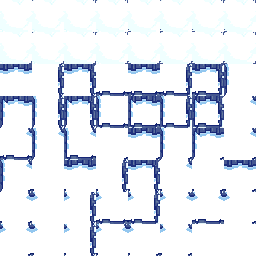
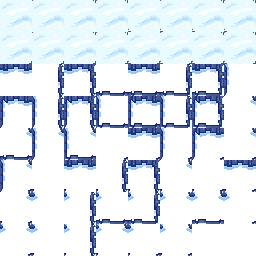
🍱 Nieve nueva (textura de Retro Diffusion en el set y la lamina de costa), flores y cactus nuevos
…y bombardero mas grande

Claude-Session: https://claude.ai/code/session_01MXw2wnnnxeCAQpUSneLWpK

diff --git a/tools/art/rd_decor.py b/tools/art/rd_decor.py
@@ -1,0 +1,55 @@
+"""Flores y cactus de Retro Diffusion (laminas de 96x32 con 3 piezas cada una). RD los dibujo dentro de un
+marco con fondo propio: se recorta el marco, se quita el fondo por su color (relleno desde el borde) y
+se queda la pieza mas grande de cada tercio.
+Salida: public/assets/img/wang/decor_{flowers|cactus}_{0,1,2}.png (32x32, apoyadas abajo y centradas)."""
+import os
+import numpy as np
+from PIL import Image
+from scipy import ndimage
+
+D = os.path.dirname(os.path.abspath(__file__))
+SRC = D + '/retrodiffusion/decor/'
+OUT = D + '/../../public/assets/img/wang/'
+
+
+def pieces(path, tol=40):
+    a = np.array(Image.open(path).convert('RGBA')).astype(int)
+    h, w = a.shape[:2]
+    # Marco: filas/columnas exteriores de color marron uniforme -> se quitan hasta llegar al fondo interior.
+    m = 0
+    while m < 6 and np.abs(a[m, w // 2, :3] - a[0, w // 2, :3]).sum() < 30:
+        m += 1
+    a = a[m:h - m, m:w - m]
+    h, w = a.shape[:2]
+    border = np.concatenate([a[0], a[-1], a[:, 0], a[:, -1]])[:, :3]
+    bg = np.median(border, axis=0)
+    like = np.abs(a[..., :3] - bg).sum(-1) < tol
+    lab, _ = ndimage.label(like)
+    edge = set(np.unique(np.concatenate([lab[0], lab[-1], lab[:, 0], lab[:, -1]]))) - {0}
+    a[np.isin(lab, list(edge)), 3] = 0
+    objs, _ = ndimage.label(a[..., 3] > 0, structure=np.ones((3, 3)))
+    out = []
+    for third in range(3):
+        best, bsl = 0, None
+        for i, sl in enumerate(ndimage.find_objects(objs), 1):
+            if sl is None:
+                continue
+            cx = (sl[1].start + sl[1].stop) / 2
+            if int(cx / w * 3) != third:
+                continue
+            n = (objs[sl] == i).sum()
+            if n > best:
+                best, bsl, bi = n, sl, i
+        p = a[bsl].copy()
+        p[objs[bsl] != bi, 3] = 0
+        im = Image.fromarray(p.astype(np.uint8))
+        cv = Image.new('RGBA', (32, 32))
+        cv.alpha_composite(im, ((32 - im.width) // 2, 31 - im.height))
+        out.append(cv)
+    return out
+
+
+for kind in ('flowers', 'cactus'):
+    for i, im in enumerate(pieces(SRC + f'misc_{kind}.png')):
+        im.save(OUT + f'decor_{kind}_{i}.png')
+print('ok')
